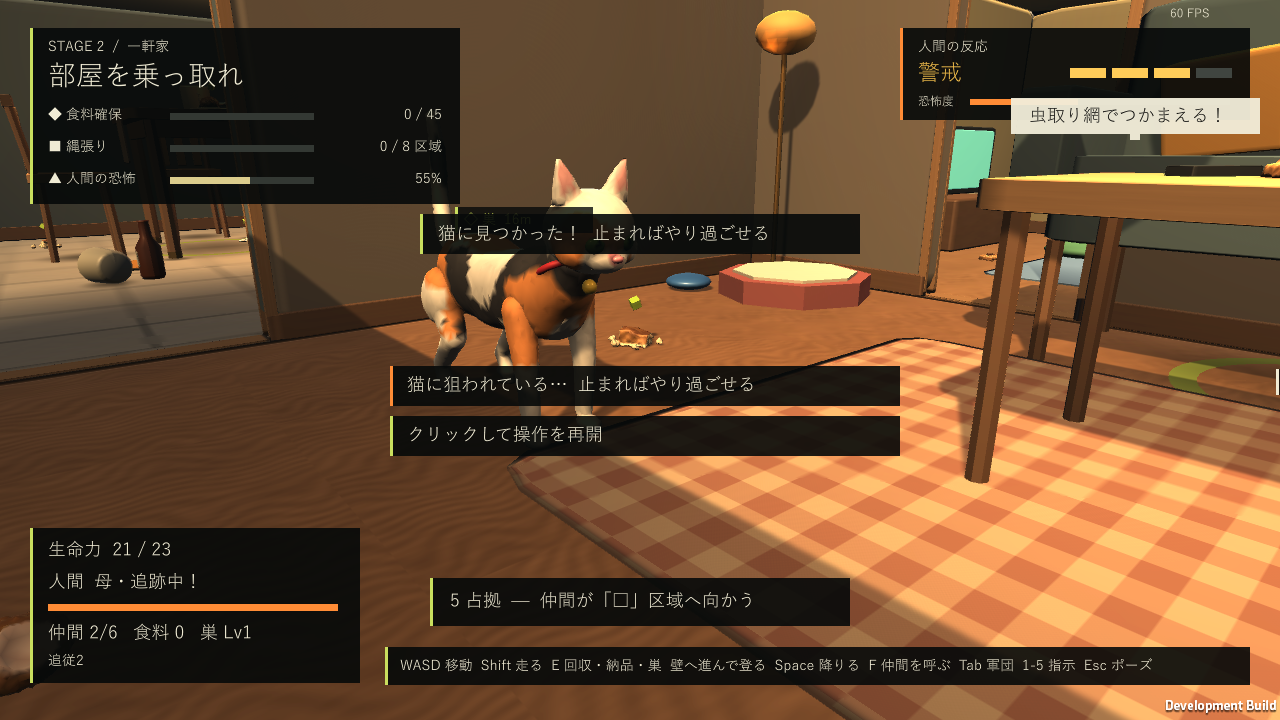
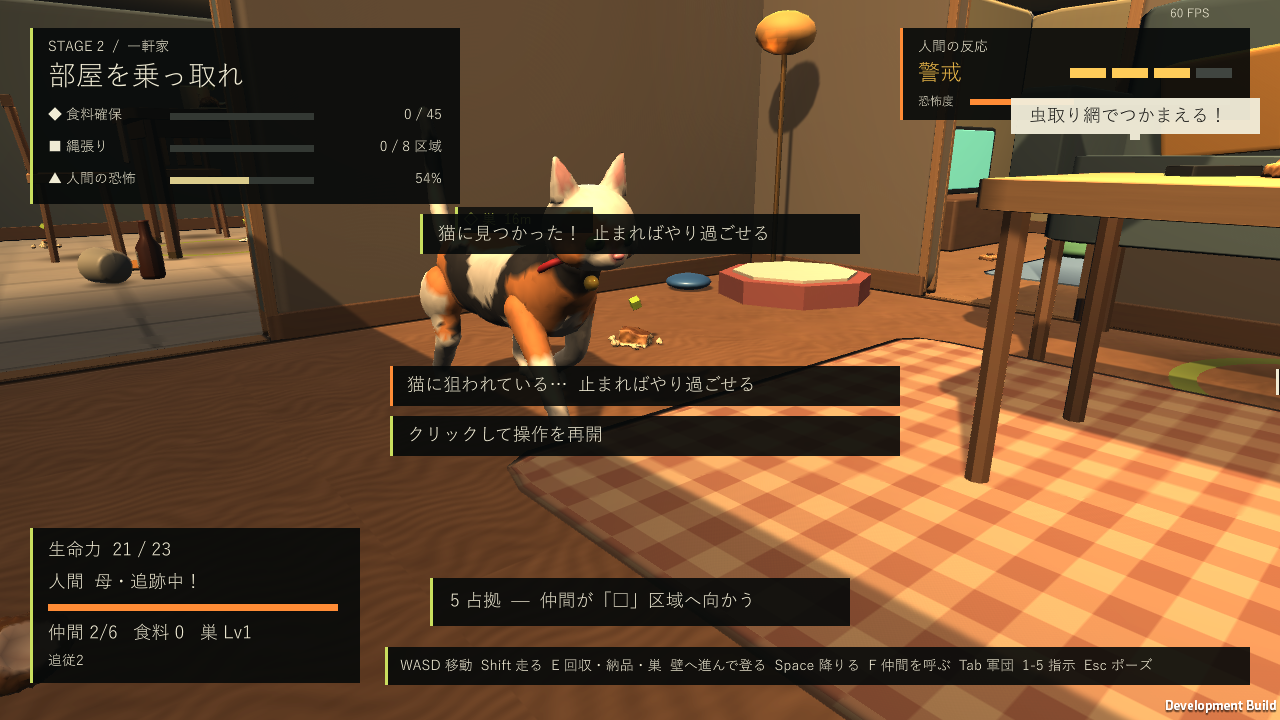
猫が戸口や角で引っかかって止まる不具合を修正
慣性で経路からはみ出した次の一歩が猫の床の外になると、その場で動かなくなっていた（再現テストで戸口に72秒停止）。
次の点へまっすぐ・壁沿いに滑る・経路の引き直しで止まらないようにし、1.5秒進まなければ引き直し、
続けば目的地をあきらめる。床の外に出たら近くの床へ戻る。経路がない時も同様。

検証: 「猫は家中を歩き回っても引っかからない」テストを追加（4倍速150秒、最長停止0.8秒・168m・4部屋）。
ステージ2 Play Mode 81・Development Player 83 PASS（例外なし）。公開版を更新。

Changed region(s): [[0.3125, 0.3361, 0.5, 0.5194], [0.4062, 0.2139, 0.5, 0.3056], [0.4062, 0.55, 0.5, 0.5806]]

diff --git a/Assets/_GokiTakeover/Scripts/HumanAI/PetCat.cs b/Assets/_GokiTakeover/Scripts/HumanAI/PetCat.cs
@@ -30,6 +30,11 @@ namespace GokiTakeover
         private int pathIndex, target = -2;   // -2 none, -1 the player, else an ally slot
         private float clock, sense, phaseUntil, cooldownUntil, repathAt, idleUntil, wanderUntil;
         private bool hasPath, missLogged;
+        // Stuck watch: no headway for a while means plan again; several times over means give that goal up.
+        private float watchAt;
+        private Vector3 watchFrom;
+        private int stuck;
+        public int Unstuck { get; private set; }
         public Phase Current { get; private set; }
         public float Interest { get; private set; }
         public bool TargetIsPlayer => target == -1;
@@ -41,6 +46,8 @@ namespace GokiTakeover
         public int LostInterest { get; private set; }
         public float Remaining => Current == Phase.Crouch ? CrouchSeconds - clock : 0;
         public bool Stalking => Current == Phase.Stalk || Current == Phase.Crouch || Current == Phase.Leap;
+        // Sitting a moment between two wander goals (not stuck).
+        public bool Resting => Current == Phase.Wander && Time.time < idleUntil;
         public Vector3 LookPoint { get; private set; }
         public string Label
         {
@@ -81,6 +88,7 @@ namespace GokiTakeover
             if (skin) skin.gameObject.SetActive(true);
             Hide();
             Current = Phase.Nap; clock = 0; phaseUntil = 6f; target = -2; Interest = 0; velocity = Vector3.zero; hasPath = false;
+            stuck = 0; Unstuck = 0; watchAt = 0;
             cooldownUntil = 0; Pounces = PlayerHits = AllyHits = LostInterest = 0;
         }
 
@@ -192,7 +200,7 @@ namespace GokiTakeover
             if (clock >= wanderUntil)
             {
                 // Tired: back to the bed for a nap.
-                if (Steer(bed, WanderSpeed, dt, 0.4f)) { Current = Phase.Nap; clock = 0; phaseUntil = Random.Range(12f, 20f); target = -2; Interest = 0; }
+                if (Steer(bed, WanderSpeed, dt, 0.4f) || stuck >= 3) { Current = Phase.Nap; clock = 0; phaseUntil = Random.Range(12f, 20f); target = -2; Interest = 0; stuck = 0; }
                 return;
             }
             if (Time.time < idleUntil) { velocity = Vector3.MoveTowards(velocity, Vector3.zero, 6 * dt); return; }
@@ -207,11 +215,12 @@ namespace GokiTakeover
                 return;
             }
             Steer(goal, WanderSpeed, dt, 0.5f);
+            if (stuck >= 2) { stuck = 0; hasPath = false; idleUntil = Time.time + 0.5f; }   // somewhere else then
         }
 
         private void StartStalk()
         {
-            Current = Phase.Stalk; clock = 0; hasPath = false;
+            Current = Phase.Stalk; clock = 0; hasPath = false; stuck = 0; watchAt = Time.time + 1.5f; watchFrom = Flat(transform.position);
             if (target == -1) { commander.Say("猫に見つかった！  止まればやり過ごせる"); if (colony) colony.Learn("cat"); }
         }
 
@@ -225,6 +234,8 @@ namespace GokiTakeover
             if (d <= PounceRange && Visible(target) && Moving(target) && Time.time >= cooldownUntil)
             { BeginPounce(target == -1 ? p : p + Vector3.ClampMagnitude(commander.Allies[target].Velocity * 0.4f, 0.6f)); return; }
             Steer(p, d > 4 ? StalkSpeed * 1.6f : StalkSpeed, dt, PounceRange * 0.8f);
+            // Out of its reach (no way there, or it keeps getting stuck): it gives up on that roach.
+            if (stuck >= 2) { stuck = 0; target = -2; Interest = 0; Current = Phase.Wander; clock = 0; hasPath = false; cooldownUntil = Time.time + Cooldown; }
         }
 
         /// <summary>Follows a path on the cat's own grid; true once within tolerance.</summary>
@@ -234,19 +245,43 @@ namespace GokiTakeover
             if (!grid.Walkable(to) && grid.NearestWalkable(to, 1.5f, out Vector3 free)) to = free;
             Vector3 here = Flat(transform.position);
             if ((to - here).magnitude <= tolerance) { velocity = Vector3.MoveTowards(velocity, Vector3.zero, 6 * dt); return true; }
+            // Off its floor (a landing, a squeeze): step back onto the nearest free spot first.
+            if (!grid.Walkable(here))
+            {
+                if (grid.NearestWalkable(here, 1.5f, out Vector3 back)) transform.position = Vector3.MoveTowards(here, back, speed * dt);
+                velocity = Vector3.zero;
+                return false;
+            }
             if (!hasPath || Time.time >= repathAt || (to - goal).sqrMagnitude > 0.5f)
             {
                 goal = to; repathAt = Time.time + 0.5f; pathIndex = 0;
                 hasPath = grid.FindPath(here, to, path);
-                if (!hasPath) { velocity = Vector3.zero; return false; }
+                if (!hasPath) { velocity = Vector3.zero; stuck++; Unstuck++; return false; }   // no way there: counts as stuck
             }
             while (pathIndex < path.Count - 1 && (path[pathIndex] - here).sqrMagnitude < 0.04f) pathIndex++;
             Vector3 toward = path[Mathf.Min(pathIndex, path.Count - 1)] - here;
             Vector3 desired = toward.sqrMagnitude > 1e-4f ? toward.normalized * speed : Vector3.zero;
             velocity = Vector3.MoveTowards(velocity, desired, speed * 6 * dt);
             Vector3 next = here + velocity * dt;
-            if (grid.Walkable(next)) transform.position = next;
+            if (!grid.Walkable(next))
+            {
+                // Its sway carried it off the straight line at a doorway or corner: head straight for the waypoint, else
+                // slide along the edge, never stop dead against it.
+                Vector3 direct = here + desired * dt, alongX = here + new Vector3(velocity.x * dt, 0, 0), alongZ = here + new Vector3(0, 0, velocity.z * dt);
+                if (grid.Walkable(direct)) { next = direct; velocity = desired; }
+                else if (grid.Walkable(alongX)) { next = alongX; velocity.z = 0; }
+                else if (grid.Walkable(alongZ)) { next = alongZ; velocity.x = 0; }
+                else { next = here; velocity = Vector3.zero; repathAt = 0; }
+            }
+            transform.position = next;
             if (velocity.sqrMagnitude > 0.01f) transform.rotation = Quaternion.RotateTowards(transform.rotation, Quaternion.LookRotation(velocity), 300 * dt);
+            // No headway for 1.5 s: plan again from here (the callers give the goal up after a few).
+            if (Time.time >= watchAt)
+            {
+                bool still = (here - watchFrom).magnitude < 0.15f;
+                watchFrom = here; watchAt = Time.time + 1.5f;
+                if (still) { stuck++; Unstuck++; hasPath = false; } else stuck = 0;
+            }
             return false;
         }
         private void Face(Vector3 at, float dt)
@@ -311,7 +346,7 @@ namespace GokiTakeover
         // Verification only.
         public void DebugStalkPlayer() { target = -1; Interest = 0.6f; StartStalk(); }
         public void DebugPounce(Vector3 at) { cooldownUntil = 0; BeginPounce(at); }
-        public void DebugWander() { Current = Phase.Wander; clock = 0; wanderUntil = 60; target = -2; Interest = 0; hasPath = false; }
+        public void DebugWander() { Current = Phase.Wander; clock = 0; wanderUntil = 60; target = -2; Interest = 0; hasPath = false; stuck = 0; watchAt = Time.time + 1.5f; watchFrom = Flat(transform.position); }
         public void DebugPlace(Vector3 at, float yaw) { transform.SetPositionAndRotation(Flat(at), Quaternion.Euler(0, yaw, 0)); hasPath = false; }
 #endif
         private static Vector3 Flat(Vector3 v) { v.y = 0; return v; }

diff --git a/Assets/_GokiTakeover/Scripts/Performance/StageTwoScenarioTest.cs b/Assets/_GokiTakeover/Scripts/Performance/StageTwoScenarioTest.cs
@@ -302,6 +302,7 @@ namespace GokiTakeover
             yield return WaitFor(() => cat.Current == PetCat.Phase.Recover, 3);
             Check(kitten.Stunned && cat.AllyHits == 1, "逃げ遅れた仲間は猫パンチでひっくり返る（スリッパと同じ）");
             yield return null;
+            yield return CatRoams();
 
             // ---- Final defence: the family leaves, the father becomes the exterminator ----
             colony.DebugGrant(0);
@@ -488,6 +489,31 @@ namespace GokiTakeover
             ShowFrom(eye, target);
             yield return Capture(name);
             cameraRig.enabled = true;
+        }
+
+        // The cat wanders all four rooms for a while (at 4x speed): wherever it heads, it never stands stuck.
+        private IEnumerator CatRoams()
+        {
+            PlaceExact(session.Nest.position + Vector3.up * 0.1f);   // nothing for it to stalk
+            UnityEngine.Random.InitState(7);
+            cat.DebugWander();
+            float scale = Time.timeScale;
+            Time.timeScale = 4;
+            float end = Time.time + 150, realEnd = Time.realtimeSinceStartup + 60, stillSince = Time.time, worst = 0, travelled = 0;
+            Vector3 last = cat.transform.position, worstAt = last;
+            var rooms = new HashSet<int>();
+            while (Time.time < end && Time.realtimeSinceStartup < realEnd)
+            {
+                yield return null;
+                if (cat.Current == PetCat.Phase.Nap) cat.DebugWander();
+                Vector3 now = cat.transform.position;
+                bool meantToMove = cat.Current == PetCat.Phase.Wander && !cat.Resting || cat.Current == PetCat.Phase.Stalk;
+                if (!meantToMove || Flat(now - last).magnitude > 0.3f) { travelled += Flat(now - last).magnitude; last = now; stillSince = Time.time; }
+                if (Time.time - stillSince > worst) { worst = Time.time - stillSince; worstAt = now; }
+                rooms.Add((now.x > 7.12f ? 1 : 0) + (now.z > 6.12f ? 2 : 0));
+            }
+            Time.timeScale = scale;
+            Check(worst < 4f && rooms.Count >= 3, "猫は家中を歩き回っても引っかからない（最長停止 " + worst.ToString("F1") + "秒 @" + worstAt.ToString("F1") + "・" + travelled.ToString("F0") + "m・" + rooms.Count + "部屋）");
         }
 
         private void FreezeAll()

diff --git a/docs/STAGE2_実装と検証.md b/docs/STAGE2_実装と検証.md
@@ -105,6 +105,12 @@
 - 家具のちらつき（同じ平面に2枚の面が重なるz-fighting）を修正: 台所の流し台の箱（両端の側板と背板・天板・前の桟・台輪が同じ面に揃っていた。ステージ1にもあった）、冷蔵庫の台座・天板・背板、子ども部屋のおもちゃ棚の箱、リビングのプレイマットとラグ（2mm差）。Edit Mode検証に「家具に同じ面で重なる板がない」チェックを追加（ステージ1・2）。
 - ユーザー指示「人間のゴキ察知能力が高すぎるので抑える」: 発見までの時間の倍率をステージ1は 1.0→1.25、ステージ2は 0.85→1.1（`StageDefinition.humanDetectionScale`）。ステージ2は引き続きステージ1より気づくのが早い（0.75秒×1.1＝0.83秒、ステージ1は0.94秒）。警戒段階による短縮（警戒0.75倍・パニック0.7倍）と生活中の視野の狭さはそのまま。
 
+## 修正（2026-10-25）: 猫が引っかかって止まる
+- 症状: 猫がよく立ち止まったまま動かなくなる。再現テスト（4倍速で150秒、家中をうろうろ）で、リビング→子ども部屋の戸口（11.3, 5.9）で72秒止まり続けた。
+- 原因: 猫は慣性つきで曲がるため、狭い戸口や角で経路からはみ出し、次の一歩が猫の床（`Stage02CatGrid`）の外になると、その場で一切動かなくなっていた。経路が見つからない時も止まったままだった。
+- 修正（`PetCat.Steer`）: 次の一歩が床の外なら、経路の次の点へまっすぐ進む → 壁に沿って滑る → それも無理なら経路を引き直す。床の外に出ていたら一番近い床へ戻る。1.5秒進まなければ経路を引き直し、続くようなら目的地をあきらめる（うろうろ中は別の場所へ、寝床へ帰る途中ならその場で昼寝、忍び寄り中はその獲物をあきらめる）。経路がない時も同じ扱い。
+- 検証: ステージ2のテストに「猫は家中を歩き回っても引っかからない」を追加（最長停止4秒未満・3部屋以上）。修正後は最長停止0.8〜0.9秒・168m・4部屋。ステージ2 Play Mode 81・Development Player 83項目PASS（例外なし）。
+
 ## 未確認・既知の問題
 - 4人目の家族（人間）は作っていない（家族3人＋猫）。
 - 実際に通しで遊んでの難易度は未確認（自動テストは各攻撃・避難・クリアを個別に確認）。掃除機の強さ（`VacuumAttack` の PullNear/PullFar）、網の連打回数（`EscapePresses`）、各ゲージ目標（`Stage02_House.asset`）で調整できる。
